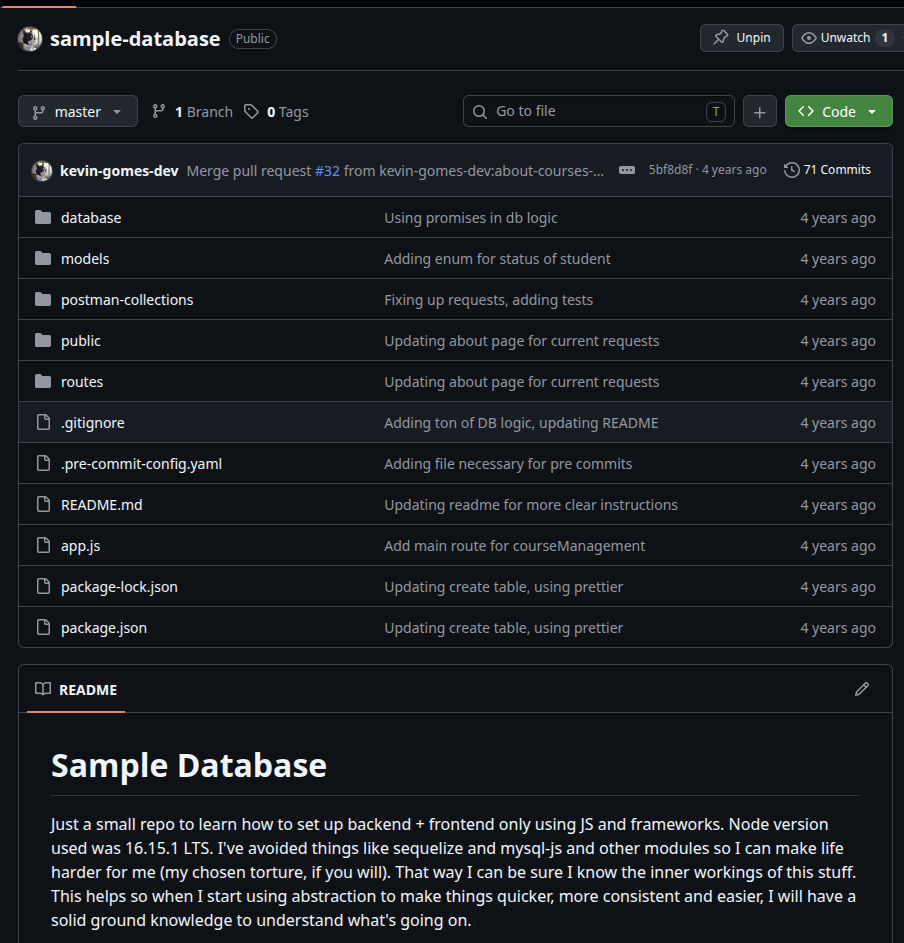
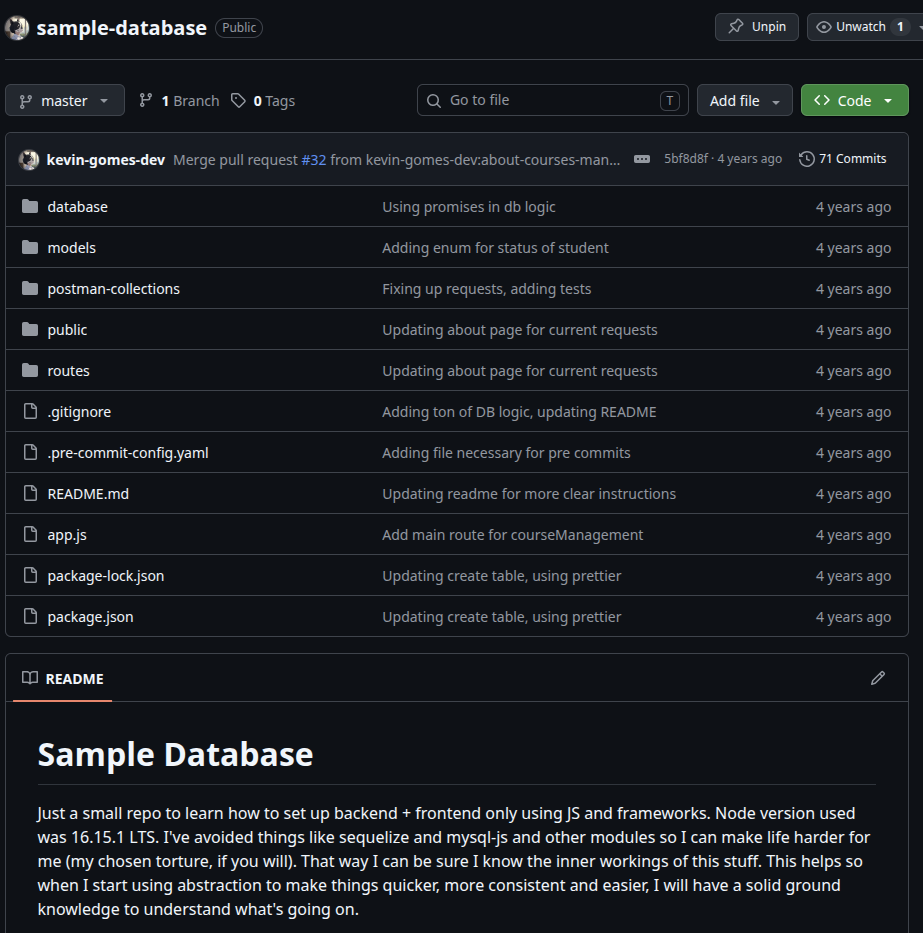
add content, finish about,port,contact

Changed region(s): [[0.0, 0.0, 1.0, 0.9946], [0.9602, 0.746, 0.9912, 0.7771]]

diff --git a/html/about.html b/html/about.html
@@ -8,9 +8,11 @@
   <body>
     <p>
       Computer Science degree from University of Rhode Island 2018, went into software dev and dropped it to go on a
-      discovery journey. I'm told that I'm pretty easygoing, even though that's tough to express through text. For my
-      interests, please understand that I'm not actually "good" at these things :)
+      discovery journey. I'm told that I'm pretty easygoing, even though that's tough to express through text. I write
+      very different from how I talk because of how much time I have to think things through, meaning I overthink
+      things. For my interests, please understand that I'm not actually "good" at these things :)
     </p>
+    <p>And yes, I do realize how absurd I sound. Take it with a grain of salt and laugh a little.</p>
     <h1>Interests</h1>
     <div class="grid-enabled" id="interests">
       <article>
@@ -18,24 +20,67 @@
         <p>
           Playing music, electric guitar specifically, crept up on me when I was 17 from a desire to express myself when
           words wouldn't cut it. For me, words were no match for the natural harmonies and dis-harmonies we can express
-          with music, conveying emotion and thought in a more primal way.
+          with music, conveying emotion and feelilng in a more primal way.
         </p>
         <p>
-          Eventually I got into recording on FL Studio, but for the most part I just play what I like, and if I can't, I
+          Eventually I got into recording on FL Studio. For the most part I just play what I like, and if I can't, I
           learn the skills required to play it.
         </p>
       </article>
       <article>
         <h2>Dream Journaling</h2>
+        <p>
+          Many have a different answer for what dreams are and may or may not represent and mean. To me, you can apply
+          the concept of statistics to derive meaning. Suppose a dream is a data point. Alone, meaningless and tells you
+          almost nothing. Chart many points and correlation manifests. Introduce some bias, and you have a story. Your
+          story.
+        </p>
+        <p>
+          Through recording dreams, I've noticed my dream recall down to the details increase significantly. The themes
+          and patterns of the dreams have started to become uniform and predictable. From this, I've learned a great
+          deal of why I am how I am, what to do to change should I wish to, and how experience makes its way into my
+          mind. I'm not 14, but I do find this deep, bro.
+        </p>
       </article>
       <article>
         <h2>Philosophy</h2>
+        <p>
+          Applying logic and reason to questions of reality can be enlightening, puzzling, thought provoking and
+          dangerous. But it's a passtime I have done for as long as I can remember. Philosophy to me is taking what we
+          understand to be the self and trying to decipher what it affects, if not everything. Finially trying to answer
+          what is reality without it. Is a given perspective literally reality for that perciever? Are we then creating
+          many realities that we invite or block out other reality-creating individuals? Is homogenous reality our goal,
+          or a world of many colors?
+        </p>
       </article>
       <article>
         <h2>Meditation</h2>
+        <p>
+          Particularly the Vipassana (insight) version. I practiced on and off for many times throughout my entire life,
+          or as far as I can remember. It allows you to take bias and preference out of the equation, seeing that
+          thoughts and change in feeling and sensation come and go with or without your intervention (many compare to
+          the tides). Indeed we are just nodes of awareness (or pebbles in the sand) amongst an infinite connection of
+          nodes of whom are both drivers and passengers of circumstance. Just uh...don't engage in too long a session
+          too many times :)
+        </p>
       </article>
       <article>
-        <h2>Test</h2>
+        <h2>Programming</h2>
+        <p>
+          Hold on, let me explain. Programming for me stems ultimately from laziness, funny enough. If I have to do the
+          same thing many times, why don't I derive a way to automate it? But of course, then I will do the automating
+          many times...so how can I automate the automation? Not to get into a recursive loop, learning to program and
+          infintely abstract is mentally engaging, and many of the concepts we use are derived and related to what we
+          perceive in life. Github's "tree" structure, "objects" possessing "methods" and "properties", abstracting many
+          concepts into one such as "walk" or "speak"...the list goes on. And as I go lower levels down to the CPU
+          instructions, the appreciation I have for those before us only increases.
+        </p>
+        <p>
+          As much as I like it, I'm very against it at the same time with how much we entrust to machines. It feels
+          often that we are giving a specific set of instructions to handle very impactful and complicated tasks. But of
+          course we make mistakes, and the more impactful the task, the more potential damage and stress involved. So it
+          is both a relaxing and fun hobby as well as a nervewracking one. That's why we keep calm and code on.
+        </p>
       </article>
     </div>
     <script src="../js/automate.js"></script>

diff --git a/css/main.css b/css/main.css
@@ -2,7 +2,7 @@
 /* Could actually use js to add everything...that way wouldn't be static */
 body {
   background-color: #38234d;
-  margin: 0 10px 0 10px;
+  margin: 0 0.5rem 0 0.5rem;
   height: 100vh;
   color: #ffffff;
   p {
@@ -10,12 +10,34 @@ body {
   }
 }
 
+/* Adjust for smaller screens */
+@media (width < 600px) {
+  #projects {
+    display: grid;
+    article {
+      width: 95vw;
+    }
+  }
+  #header-bar {
+    display: block;
+    text-align: center;
+  }
+  #main-nav {
+    display: grid;
+  }
+}
 /* The nav element with this class gets created with js */
-.main-nav {
+#main-nav {
   gap: 1rem;
   a {
     font-size: 2em;
   }
+}
+
+/* Created via js to house the title and nav */
+#header-bar {
+  justify-content: space-between;
+  align-items: baseline;
 }
 
 /* The h1 element with this id gets created with js, displays on every page */
@@ -29,12 +51,6 @@ body {
   display: flex;
 }
 
-/* Created via js to house the title and nav */
-.header-bar {
-  justify-content: space-between;
-  align-items: baseline;
-}
-
 a {
   text-decoration: none;
   color: #f0f8ff;
@@ -43,13 +59,18 @@ a {
 
 /* A "card" expecting an h2 title, image, p tag(s) and <a>*/
 article {
+  word-wrap: break-word;
+  background-color: #8541c9;
+  width: 40vw;
+  max-height: fit-content;
+  margin: 1rem 1rem 1rem 1rem;
+  border: 3px solid #000000;
   h2 {
     background-color: #5d2496;
     margin: 0;
     text-align: center;
   }
   img {
-    margin: auto;
     width: 100%;
     /* Some style to keep image small to fit in card */
   }
@@ -63,11 +84,6 @@ article {
   p {
     margin: 0.5rem 0.1rem 0.5rem 0.5rem;
   }
-  background-color: #8541c9;
-  width: 40vw;
-  max-height: fit-content;
-  margin: 1rem 1rem 1rem 0;
-  border: 3px solid #000000;
 }
 
 .grid-enabled {
@@ -76,7 +92,9 @@ article {
 
 /* Projects in the portfolio page */
 #projects {
-  grid-template-columns: repeat(2, 1fr);
+  /* grid-template-columns: repeat(2, 1fr); */
+  flex-direction: row;
+  flex-wrap: wrap;
 }
 
 #interests {
@@ -94,9 +112,9 @@ form {
   textarea {
     background-color: #190929;
     color: white;
+    width: 98vw;
   }
   textarea {
     height: 40vh;
-    width: 100vw;
   }
 }

diff --git a/html/portfolio.html b/html/portfolio.html
@@ -7,7 +7,7 @@
     <title>Portfolio</title>
   </head>
   <body>
-    <div class="grid-enabled" id="projects">
+    <div class="flex-enabled" id="projects">
       <article>
         <h2>Ecourier API</h2>
         <img src="../img/port_ecourier.png" alt="ecourier" />
@@ -28,13 +28,7 @@
       <article>
         <h2>Renpy Generator</h2>
         <img src="../img/port_renpy.png" alt="renpy gen" />
-        <p>
-          Basic code that helps automate writinig RenPy code by using a formatted document containing narration and
-          character text. Special markers exist for features of RenPy such as scene changes, transitions and transforms,
-          and even raw python code for things like setting up variables and conditionals. As of now, branches are not
-          supported. Optional feature to use a function before every say statement to get voice file! An example
-          get_voice() can be found in the repo.
-        </p>
+        <p>Automate writing RenPy code by using a formatted document containing narration and character text.</p>
         <p>Language(s): Python</p>
         <a href="https://github.com/kevin-gomes-dev/renpy-gen" target="_blank">Github Repo</a>
       </article>
@@ -43,6 +37,16 @@
         <img src="../img/port_sample_db.png" alt="proj img" />
         <p>A simple and working database in MySQL.</p>
         <p>Language(s): Javascript, HTML</p>
+        <a href="https://github.com/kevin-gomes-dev/sample-database" target="_blank">Github Repo</a>
+      </article>
+      <article>
+        <h2>Coqui-TTS + RVC</h2>
+        <img src="../img/port_tts_rvc.png" alt="proj img" />
+        <p>
+          2 driver scripts and various others to assist automating and using Coqui-TTS and RVC. Coqui-TTS and RVC sold
+          seperately.
+        </p>
+        <p>Language(s): Python</p>
         <a href="https://github.com/kevin-gomes-dev/sample-database" target="_blank">Github Repo</a>
       </article>
     </div>

diff --git a/js/automate.js b/js/automate.js
@@ -50,7 +50,8 @@ function fill_portfolio() {
 
   // The header menu
   const menu_div = document.createElement("header");
-  menu_div.className = "flex-enabled header-bar";
+  menu_div.className = "flex-enabled";
+  menu_div.id = "header-bar";
   // Add the main css
   const link_elem = document.createElement("link");
   link_elem.setAttribute("rel", "stylesheet");
@@ -59,7 +60,8 @@ function fill_portfolio() {
 
   // Make main nav and put as 2nd element on page after the heading
   const main_nav = document.createElement("nav");
-  main_nav.className = "main-nav flex-enabled";
+  main_nav.className = "flex-enabled";
+  main_nav.id = "main-nav";
   const title_h1 = document.createElement("h1");
   title_h1.id = "page-title";
   menu_div.prepend(main_nav);

diff --git a/html/index.html b/html/index.html
@@ -6,6 +6,9 @@
     <title>Home</title>
   </head>
   <body>
+    <h1>Experience, Share, Repeat</h1>
+    <p>This is the site of Kevin Gomes. Please go through the portfolio page to see examples of what I'm interested in and capable of.
+    </p>
     <script src="../js/automate.js"></script>
   </body>
 </html>